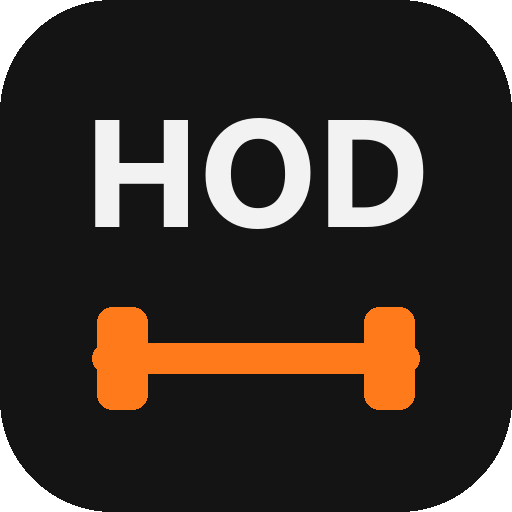
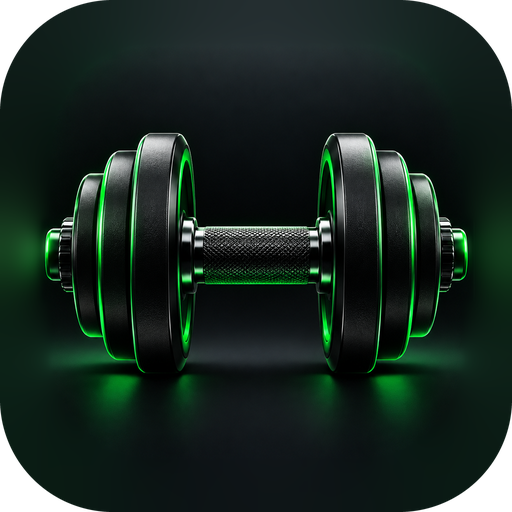
Icono nuevo: mancuerna con brillo verde (v0.1.4)

Changed region(s): [[0.0, 0.2188, 1.0, 0.8438], [0.3125, 0.0, 0.75, 0.1562], [0.75, 0.0938, 0.7812, 0.125]]

diff --git a/sw.js b/sw.js
@@ -1,5 +1,5 @@
 // HOD GYM service worker. Sube VERSION en cada despliegue (deploy.py lo hace solo).
-const VERSION = '0.1.3';
+const VERSION = '0.1.4';
 const CACHE = 'fierro-' + VERSION;
 const SHELL = [
   './', './index.html', './styles.css', './manifest.webmanifest',

diff --git a/js/version.js b/js/version.js
@@ -1,1 +1,1 @@
-export const APP_VERSION = '0.1.3';
+export const APP_VERSION = '0.1.4';
